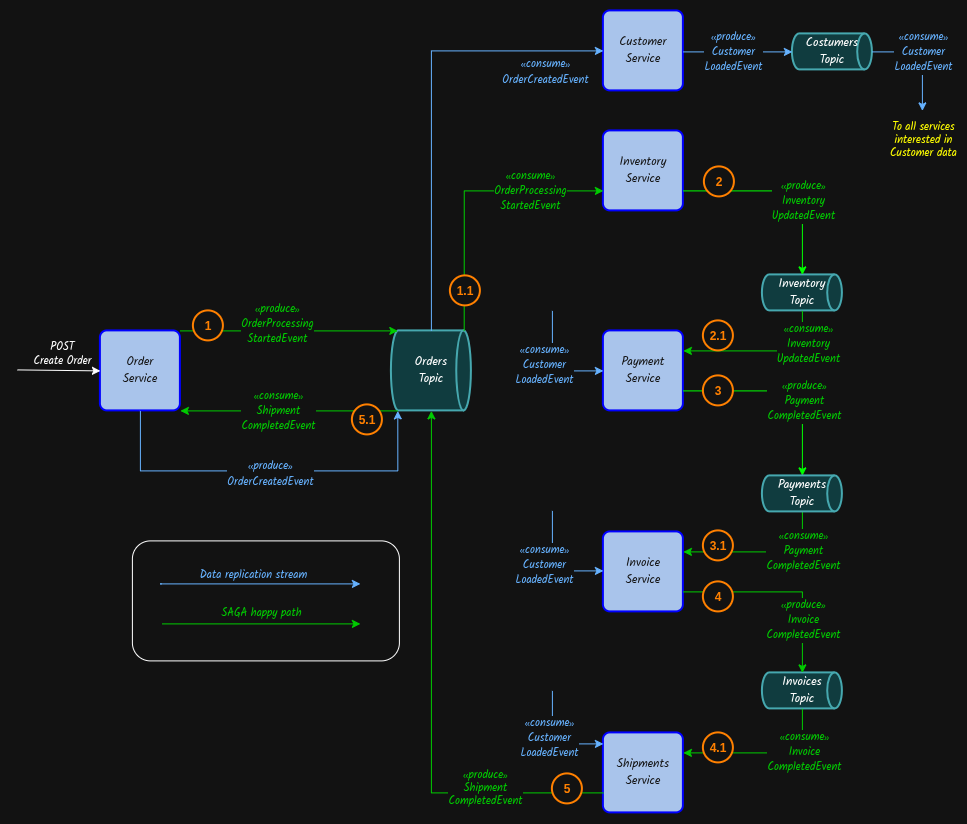
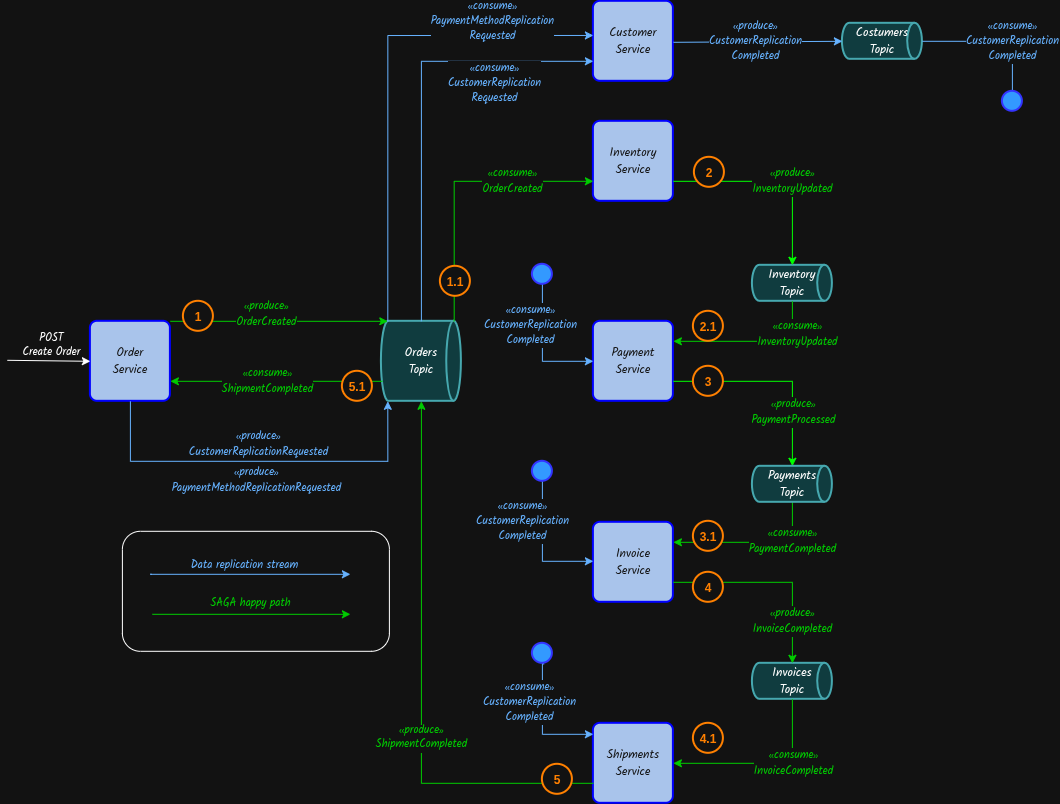
Adjustments for events renaming

diff --git a/src/test/java/net/wowdev/ecommerce/orders/service/DefaultOrderServiceTest.java b/src/test/java/net/wowdev/ecommerce/orders/service/DefaultOrderServiceTest.java
@@ -12,8 +12,8 @@ import net.wowdev.ecommerce.domain.dto.OrderDTO;
 import net.wowdev.ecommerce.domain.dto.OrderLineDTO;
 import net.wowdev.ecommerce.domain.entity.OrderEntity;
 import net.wowdev.ecommerce.domain.enums.OrderStatus;
-import net.wowdev.ecommerce.domain.events.OrderCreatedEvent;
-import net.wowdev.ecommerce.domain.events.OrderProcessingStartedEvent;
+import net.wowdev.ecommerce.domain.events.CustomerReplicationRequested;
+import net.wowdev.ecommerce.domain.events.OrderCreated;
 import net.wowdev.ecommerce.orders.TestFixtures;
 import net.wowdev.ecommerce.orders.messaging.OrderProducer;
 import net.wowdev.ecommerce.orders.repository.OrderRepository;
@@ -73,8 +73,8 @@ class DefaultOrderServiceTest {
     final OrderDTO result = service.create(order);
 
     assertThat(result).usingRecursiveComparison().isEqualTo(order);
-    final ArgumentCaptor<OrderCreatedEvent> event =
-        ArgumentCaptor.forClass(OrderCreatedEvent.class);
+    final ArgumentCaptor<OrderCreated> event =
+        ArgumentCaptor.forClass(OrderCreated.class);
     verify(orderProducer).publish(event.capture());
     assertThat(event.getValue().orderDTO()).usingRecursiveComparison().isEqualTo(order);
     assertThat(event.getValue().transactionId()).isEqualTo(order.getId().toString());
@@ -91,8 +91,8 @@ class DefaultOrderServiceTest {
 
     assertThat(result.getId()).isNotNull();
     assertThat(order.getId()).isEqualTo(result.getId());
-    verify(orderProducer).publish(any(OrderCreatedEvent.class));
-    verify(orderProducer).publish(any(OrderProcessingStartedEvent.class));
+    verify(orderProducer).publish(any(OrderCreated.class));
+    verify(orderProducer).publish(any(CustomerReplicationRequested.class));
   }
 
   @Test
@@ -115,8 +115,8 @@ class DefaultOrderServiceTest {
     assertThat(result.getTotalAmount()).isEqualByComparingTo("35.90");
     assertThat(line.getId()).isNotNull();
     assertThat(line.getOrderId()).isEqualTo(result.getId());
-    verify(orderProducer).publish(any(OrderCreatedEvent.class));
-    verify(orderProducer).publish(any(OrderProcessingStartedEvent.class));
+    verify(orderProducer).publish(any(OrderCreated.class));
+    verify(orderProducer).publish(any(CustomerReplicationRequested.class));
   }
 
   @Test
@@ -141,7 +141,7 @@ class DefaultOrderServiceTest {
 
     assertThat(result.getId()).isEqualTo(current.getId());
     assertThat(result.getOrderNumber()).isEqualTo("ORD-2");
-    verify(orderProducer, never()).publish(any(OrderCreatedEvent.class));
+    verify(orderProducer, never()).publish(any(OrderCreated.class));
   }
 
   @Test

diff --git a/src/main/java/net/wowdev/ecommerce/orders/messaging/OrderConsumer.java b/src/main/java/net/wowdev/ecommerce/orders/messaging/OrderConsumer.java
@@ -2,10 +2,8 @@ package net.wowdev.ecommerce.orders.messaging;
 
 import lombok.RequiredArgsConstructor;
 import lombok.extern.slf4j.Slf4j;
-import net.wowdev.ecommerce.domain.events.InventoryUpdateFailedEvent;
-import net.wowdev.ecommerce.domain.events.OrderProcessingCompletedEvent;
-import net.wowdev.ecommerce.domain.events.OrderProcessingFailedEvent;
-import net.wowdev.ecommerce.domain.events.ShipmentCompletedEvent;
+import net.wowdev.ecommerce.domain.events.InventoryUpdateFailed;
+import net.wowdev.ecommerce.domain.events.ShipmentCompleted;
 import net.wowdev.ecommerce.orders.service.OrderService;
 import org.springframework.kafka.annotation.KafkaHandler;
 import org.springframework.kafka.annotation.KafkaListener;
@@ -27,34 +25,18 @@ public class OrderConsumer {
   private final OrderService orderService;
 
   @KafkaHandler
-  public void handle(OrderProcessingFailedEvent event) {
+  public void handle(InventoryUpdateFailed event) {
     log.debug(
-        ">>>> Processing OrderProcessingFailedEvent sent by {}. Event id: {}",
-        event.origin(),
-        event.eventId());
-  }
-
-  @KafkaHandler
-  public void handle(OrderProcessingCompletedEvent event) {
-    log.debug(
-        ">> Processing OrderProcessingCompletedEvent sent by {}. Event id: {}",
-        event.origin(),
-        event.eventId());
-  }
-
-  @KafkaHandler
-  public void handle(InventoryUpdateFailedEvent event) {
-    log.debug(
-        ">> Processing InventoryUpdateFailedEvent sent by {}. Event id {}",
+        ">> Processing InventoryUpdateFailed event sent by {}. Event id {}",
         event.origin(),
         event.eventId());
     orderService.cancel(event.orderDTO(), event.reason());
   }
 
   @KafkaHandler
-  public void handle(ShipmentCompletedEvent event) {
+  public void handle(ShipmentCompleted event) {
     log.debug(
-        ">> Processing ShipmentCompletedEvent sent by {}. Event id {}",
+        ">> Processing ShipmentProcessed event sent by {}. Event id {}",
         event.origin(),
         event.eventId());
     orderService.complete(event.orderDTO());

diff --git a/src/main/java/net/wowdev/ecommerce/orders/service/DefaultOrderService.java b/src/main/java/net/wowdev/ecommerce/orders/service/DefaultOrderService.java
@@ -8,8 +8,8 @@ import lombok.extern.slf4j.Slf4j;
 import net.wowdev.ecommerce.domain.dto.OrderDTO;
 import net.wowdev.ecommerce.domain.entity.OrderEntity;
 import net.wowdev.ecommerce.domain.enums.OrderStatus;
-import net.wowdev.ecommerce.domain.events.OrderCreatedEvent;
-import net.wowdev.ecommerce.domain.events.OrderProcessingStartedEvent;
+import net.wowdev.ecommerce.domain.events.CustomerReplicationRequested;
+import net.wowdev.ecommerce.domain.events.OrderCreated;
 import net.wowdev.ecommerce.domain.mapper.OrderMapper;
 import net.wowdev.ecommerce.orders.messaging.OrderProducer;
 import net.wowdev.ecommerce.orders.repository.OrderRepository;
@@ -138,26 +138,26 @@ public class DefaultOrderService implements OrderService {
   }
 
   private void publishOrderCreated(OrderDTO savedOrderDTO) {
-    OrderCreatedEvent orderCreatedEvent =
-        new OrderCreatedEvent(
+    OrderCreated event =
+        new OrderCreated(
             UUID.randomUUID(),
             savedOrderDTO.getId().toString(),
             savedOrderDTO,
             Instant.now(),
             OrderProducer.ORIGIN_SERVICE);
     // TODO: persist event before publishing (outbox pattern)
-    orderProducer.publish(orderCreatedEvent);
+    orderProducer.publish(event);
   }
 
   protected void publishOrderProcessingStarted(OrderDTO orderDTO) {
-    OrderProcessingStartedEvent orderProcessingStartedEvent =
-        new OrderProcessingStartedEvent(
+    CustomerReplicationRequested event =
+        new CustomerReplicationRequested(
             UUID.randomUUID(),
             orderDTO.getId().toString(),
             orderDTO,
             Instant.now(),
             ORIGIN_SERVICE);
-    orderProducer.publish(orderProcessingStartedEvent);
+    orderProducer.publish(event);
   }
 
 }

diff --git a/src/test/java/net/wowdev/ecommerce/orders/messaging/OrderProducerTest.java b/src/test/java/net/wowdev/ecommerce/orders/messaging/OrderProducerTest.java
@@ -5,20 +5,20 @@ import static org.mockito.Mockito.verify;
 
 import java.time.Instant;
 import java.util.UUID;
-import net.wowdev.ecommerce.domain.events.OrderCreatedEvent;
-import net.wowdev.ecommerce.domain.events.OrderProcessingStartedEvent;
+import net.wowdev.ecommerce.domain.events.CustomerReplicationRequested;
+import net.wowdev.ecommerce.domain.events.OrderCreated;
 import org.junit.jupiter.api.Test;
 import org.springframework.kafka.core.KafkaTemplate;
 
 class OrderProducerTest {
 
   @Test
-  void publishesOrderCreatedEventWithEventIdAsKey() {
+  void publishesOrderCreatedWithEventIdAsKey() {
     final KafkaTemplate<String, Object> template = mock(KafkaTemplate.class);
     final OrderProducer producer = new OrderProducer(template, "orders.v1");
     final UUID eventId = UUID.randomUUID();
-    final OrderCreatedEvent event =
-        new OrderCreatedEvent(
+    final OrderCreated event =
+        new OrderCreated(
             eventId,
             "TX-1",
             null,
@@ -31,12 +31,12 @@ class OrderProducerTest {
   }
 
   @Test
-  void publishesOrderProcessingStartedEventWithEventIdAsKey() {
+  void publishesCustomerReplicationRequestedWithEventIdAsKey() {
     final KafkaTemplate<String, Object> template = mock(KafkaTemplate.class);
     final OrderProducer producer = new OrderProducer(template, "orders.v1");
     final UUID eventId = UUID.randomUUID();
-    final OrderProcessingStartedEvent event =
-        new OrderProcessingStartedEvent(
+    final CustomerReplicationRequested event =
+        new CustomerReplicationRequested(
             eventId,
             "TX-1",
             null,

diff --git a/src/main/java/net/wowdev/ecommerce/orders/messaging/OrderProducer.java b/src/main/java/net/wowdev/ecommerce/orders/messaging/OrderProducer.java
@@ -1,8 +1,8 @@
 package net.wowdev.ecommerce.orders.messaging;
 
 import lombok.extern.slf4j.Slf4j;
-import net.wowdev.ecommerce.domain.events.OrderCreatedEvent;
-import net.wowdev.ecommerce.domain.events.OrderProcessingStartedEvent;
+import net.wowdev.ecommerce.domain.events.CustomerReplicationRequested;
+import net.wowdev.ecommerce.domain.events.OrderCreated;
 import org.springframework.beans.factory.annotation.Value;
 import org.springframework.kafka.core.KafkaTemplate;
 import org.springframework.stereotype.Component;
@@ -25,14 +25,14 @@ public class OrderProducer {
   }
 
   @TransactionalEventListener(phase = TransactionPhase.AFTER_COMMIT)
-  public void publish(final OrderCreatedEvent event) {
-    log.debug(">> Publishing OrderCreatedEvent with event id: {}", event.eventId());
+  public void publish(final OrderCreated event) {
+    log.debug(">> Publishing OrderCreated event with event id: {}", event.eventId());
     template.send(ordersTopic, event.eventId().toString(), event);
   }
 
   @TransactionalEventListener(phase = TransactionPhase.AFTER_COMMIT)
-  public void publish(OrderProcessingStartedEvent event) {
-    log.debug(">> Publishing OrderProcessingStartedEvent: {}", event.eventId());
+  public void publish(CustomerReplicationRequested event) {
+    log.debug(">> Publishing CustomerReplicationRequested: {}", event.eventId());
     template.send(ordersTopic, event.eventId().toString(), event);
   }
 }

diff --git a/src/test/java/net/wowdev/ecommerce/orders/messaging/OrderConsumerTest.java b/src/test/java/net/wowdev/ecommerce/orders/messaging/OrderConsumerTest.java
@@ -6,9 +6,7 @@ import static org.mockito.Mockito.verify;
 import java.time.Instant;
 import java.util.UUID;
 import net.wowdev.ecommerce.domain.dto.OrderDTO;
-import net.wowdev.ecommerce.domain.events.InventoryUpdateFailedEvent;
-import net.wowdev.ecommerce.domain.events.OrderProcessingCompletedEvent;
-import net.wowdev.ecommerce.domain.events.OrderProcessingFailedEvent;
+import net.wowdev.ecommerce.domain.events.InventoryUpdateFailed;
 import net.wowdev.ecommerce.orders.service.OrderService;
 import org.junit.jupiter.api.Test;
 
@@ -18,16 +16,6 @@ class OrderConsumerTest {
   private final OrderConsumer consumer = new OrderConsumer(orderService);
 
   @Test
-  void handlesFailedOrders() {
-    consumer.handle(mock(OrderProcessingFailedEvent.class));
-  }
-
-  @Test
-  void handlesCompletedOrders() {
-    consumer.handle(mock(OrderProcessingCompletedEvent.class));
-  }
-
-  @Test
   void handlesUnknownEvents() {
     consumer.handleUnknown(new Object());
   }
@@ -35,8 +23,8 @@ class OrderConsumerTest {
   @Test
   void cancelsOrderWhenInventoryUpdateFails() {
     final OrderDTO order = new OrderDTO();
-    final InventoryUpdateFailedEvent event =
-        new InventoryUpdateFailedEvent(
+    final InventoryUpdateFailed event =
+        new InventoryUpdateFailed(
             UUID.randomUUID(),
             "transaction-1",
             order,
